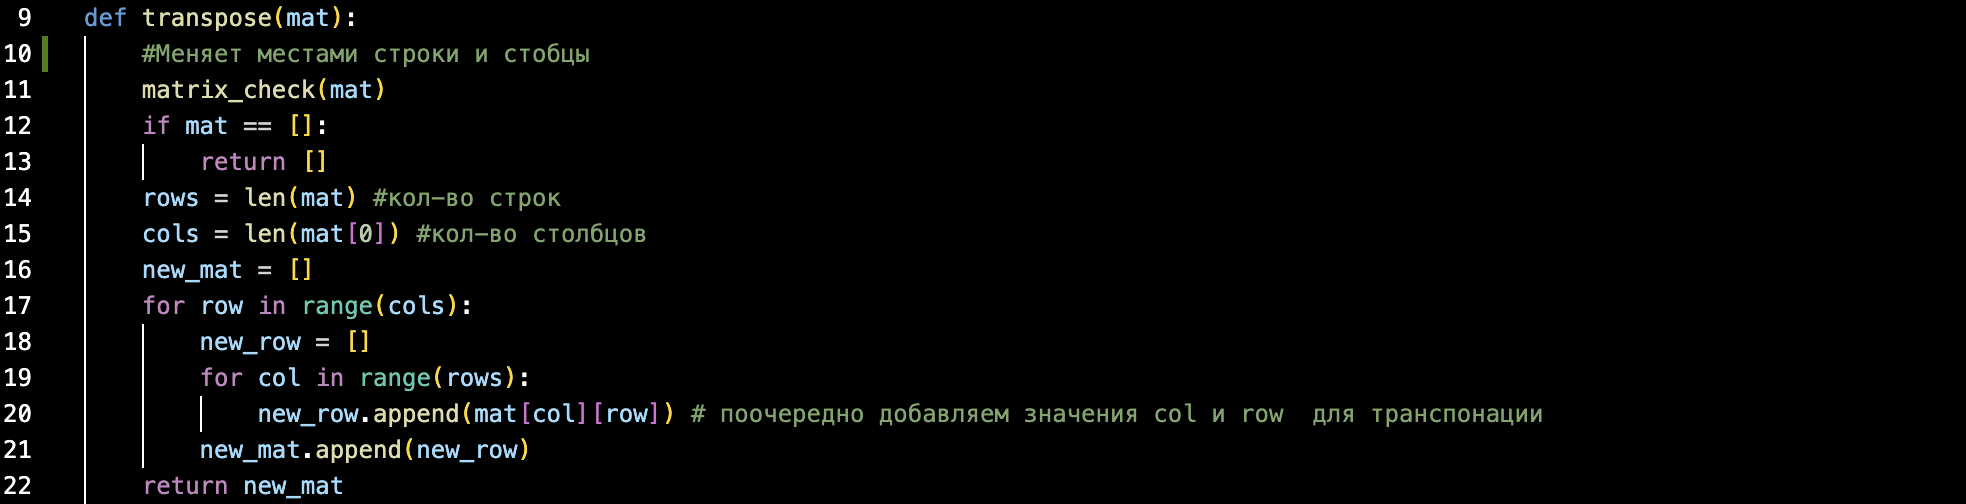
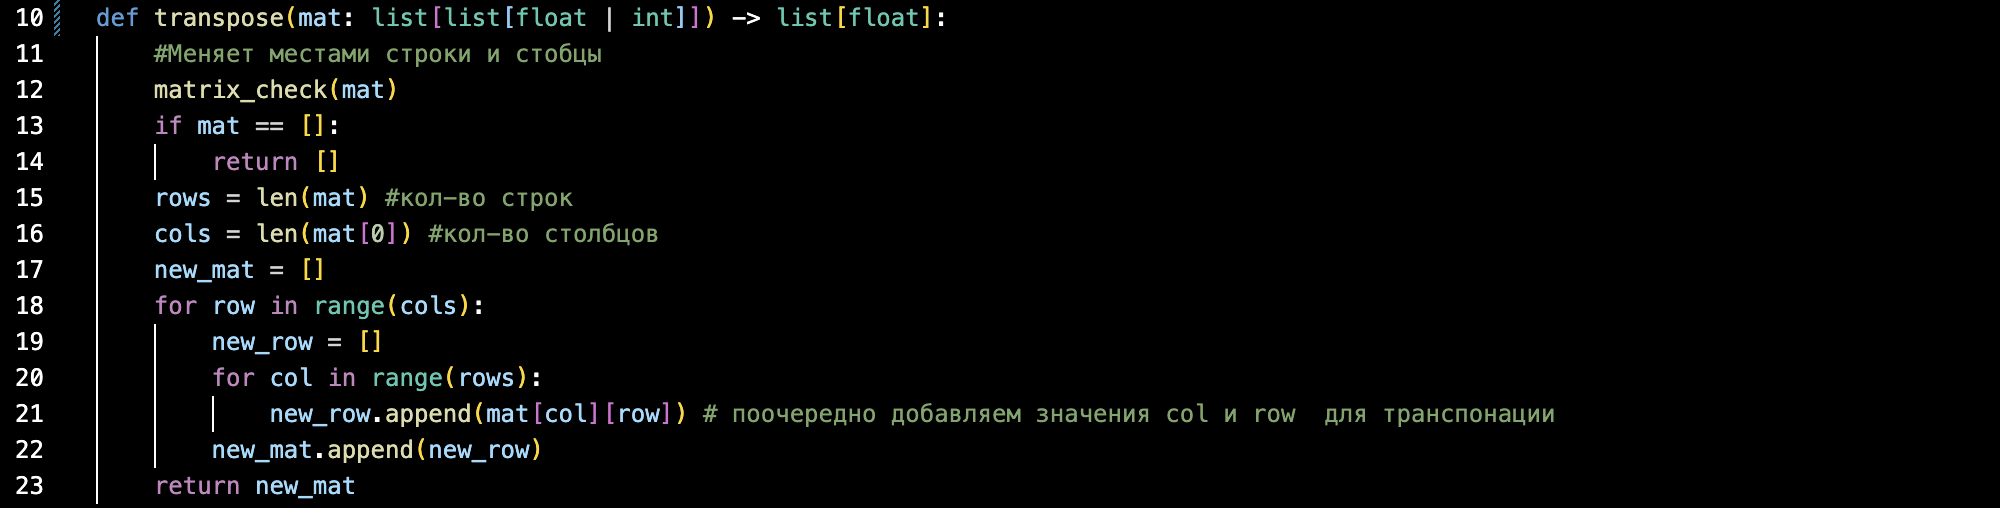
02

diff --git a/src/lab02/matrix.py b/src/lab02/matrix.py
@@ -1,4 +1,5 @@
-def matrix_check(mat):
+def matrix_check(mat: list[list[float | int]]) -> list[list]:
+    # Проверяет рваная ли матрица
     if mat == []:
         return 
     width = len(mat[0])
@@ -6,7 +7,7 @@ def matrix_check(mat):
         if len(row) != width:
             raise ValueError("Рваная матрица")
 
-def transpose(mat):
+def transpose(mat: list[list[float | int]]) -> list[float]:
     #Меняет местами строки и стобцы
     matrix_check(mat)
     if mat == []:
@@ -21,7 +22,7 @@ def transpose(mat):
         new_mat.append(new_row)
     return new_mat
 
-def row_sums(mat):
+def row_sums(mat: list[list[float | int]]) -> list[float]:
     #Возвращет сумму элементов по каждой строке матрицы
     if mat == []:
         return []
